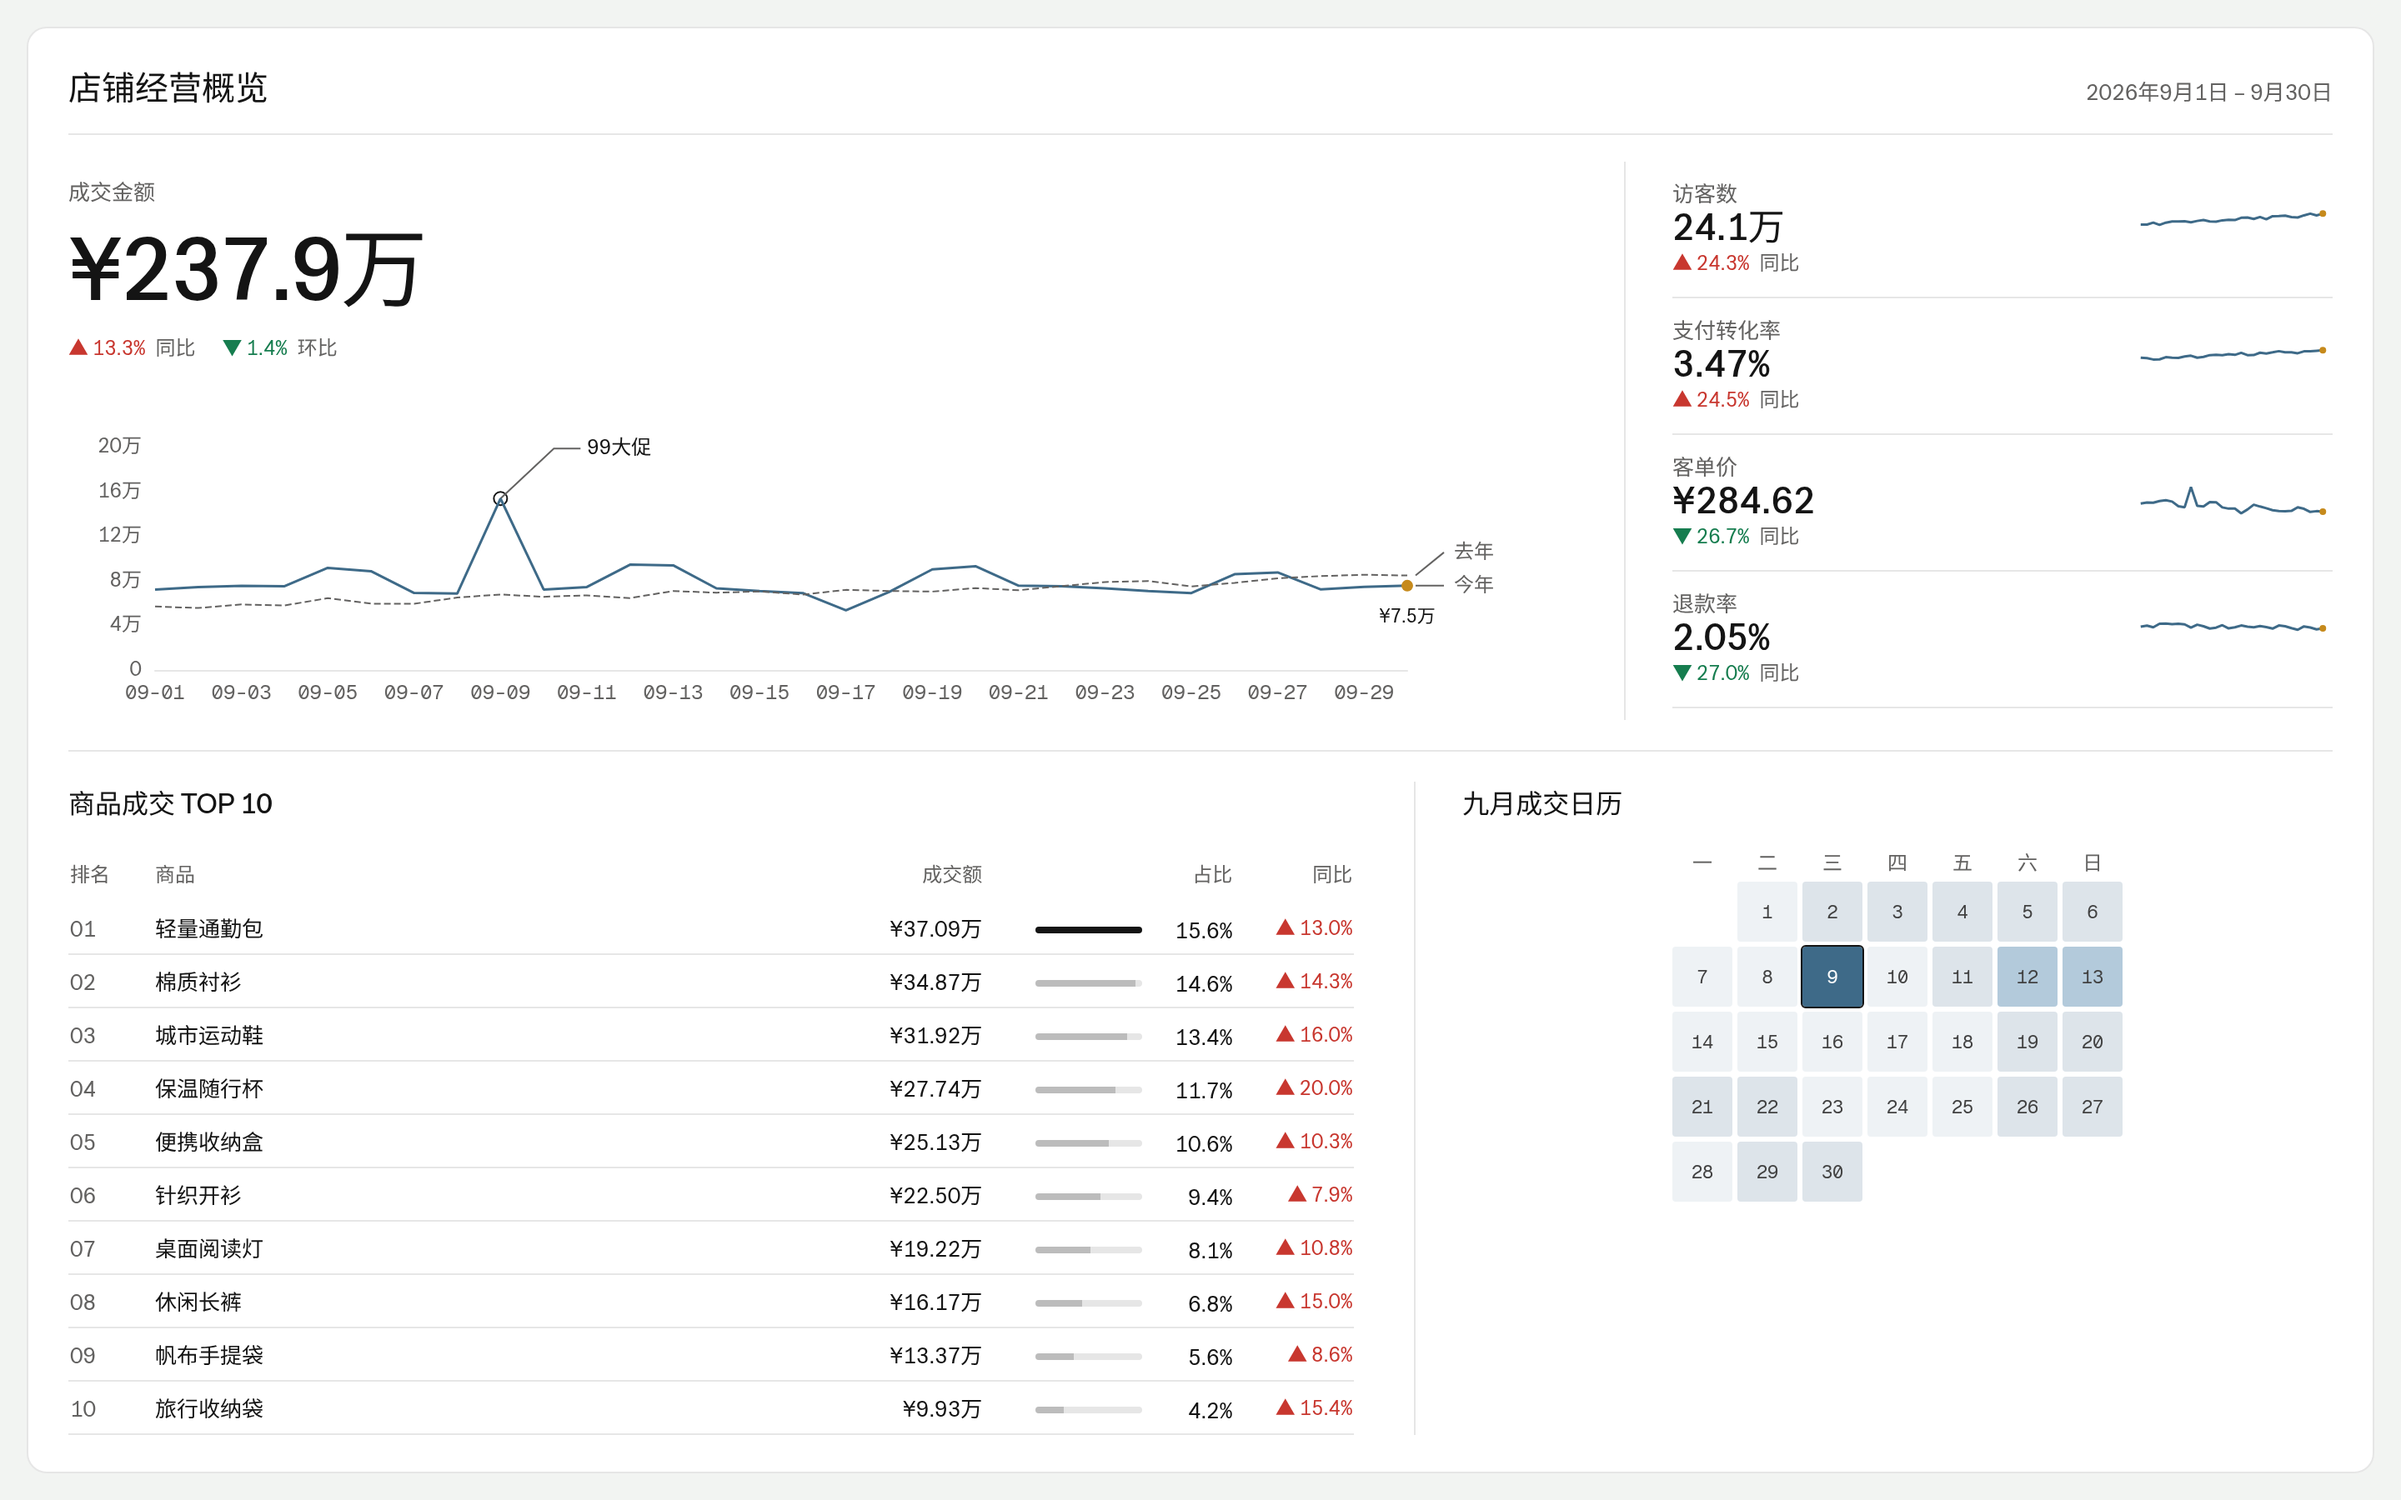
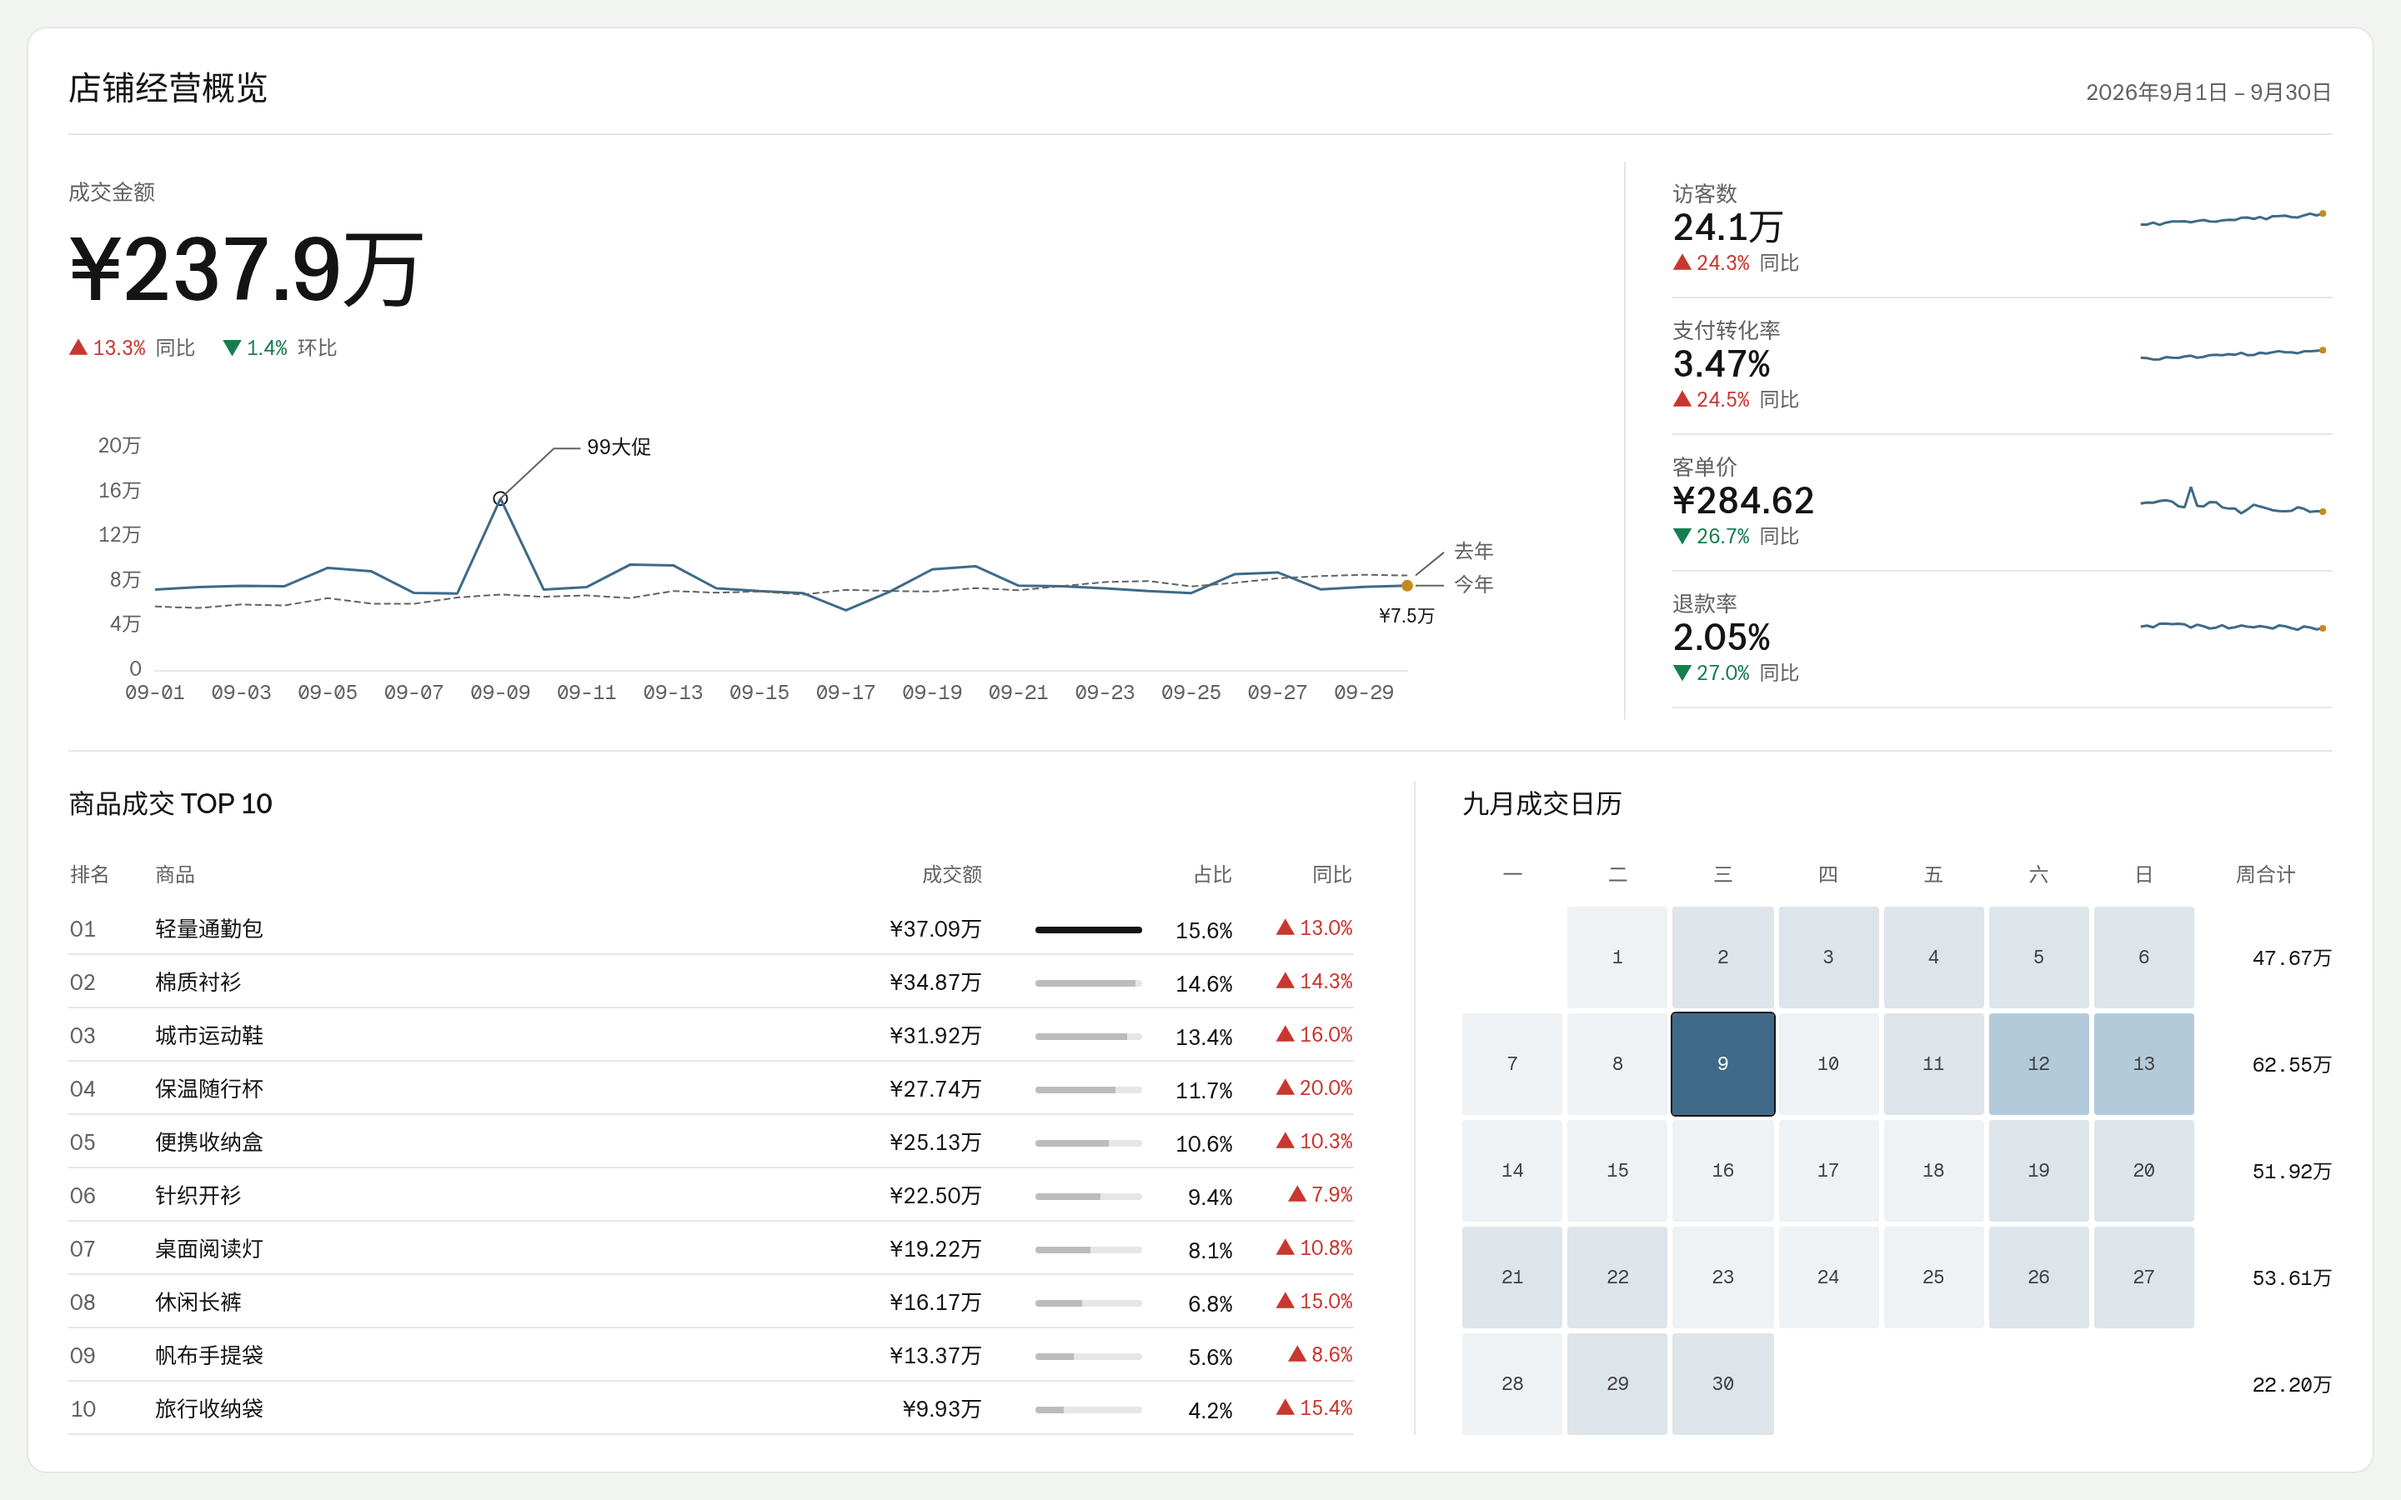
Calendar fills its column with weekly totals, change waterfall, net burn row, quarterly runway ticks, Dashtaste captions

Changed region(s): [[0.6875, 0.56, 0.9688, 0.9022], [0.5938, 0.8089, 0.75, 0.9644], [0.9375, 0.9022, 0.9688, 0.9333]]

diff --git a/test/gallery.test.ts b/test/gallery.test.ts
@@ -230,6 +230,19 @@ for (const name of ['saas', 'finance', 'store', 'live']) {
               );
             }
             if (name === 'store') {
+              const totals = await page
+                .locator('.week-total')
+                .evaluateAll((cells) =>
+                  cells.map((cell) => Number((cell as HTMLElement).dataset.total)),
+                );
+              expect(totals).toEqual(
+                Array.from({ length: 5 }, (_, week) =>
+                  Array.from(
+                    { length: 7 },
+                    (_, day) => data.store.revenue[week * 7 + day - 1] || 0,
+                  ).reduce((a, b) => a + b, 0),
+                ),
+              );
               const sum = (a: number[]) => a.reduce((a, b) => a + b, 0);
               const change = sum(data.store.revenue) / sum(data.store.previous.revenue) - 1;
               expect(await page.locator('.top>section [data-delta]').nth(1).textContent()).toBe(

diff --git a/README.md b/README.md
@@ -112,6 +112,8 @@ pnpm gallery
 
 This builds the CLI, copies local ECharts into the ignored `gallery/vendor/` folder, renders eight PNGs, and writes [results.json](gallery/results.json). No CDN or network fonts are used. Set `CHROME_PATH` to your local Chromium executable; the default is `/usr/bin/google-chrome`. The browser test extracts each live page again instead of trusting saved scores.
 
+Comparison captions: “Default” / “Dashtaste” (global), “默认” / “Dashtaste” (cn). Wide images preserve full board height and use measured column boundaries.
+
 - saas: [wide](gallery/compare/saas-wide.png) · [tall](gallery/compare/saas-tall.png)
 - finance: [wide](gallery/compare/finance-wide.png) · [tall](gallery/compare/finance-tall.png)
 - store: [wide](gallery/compare/store-wide.png) · [tall](gallery/compare/store-tall.png)
